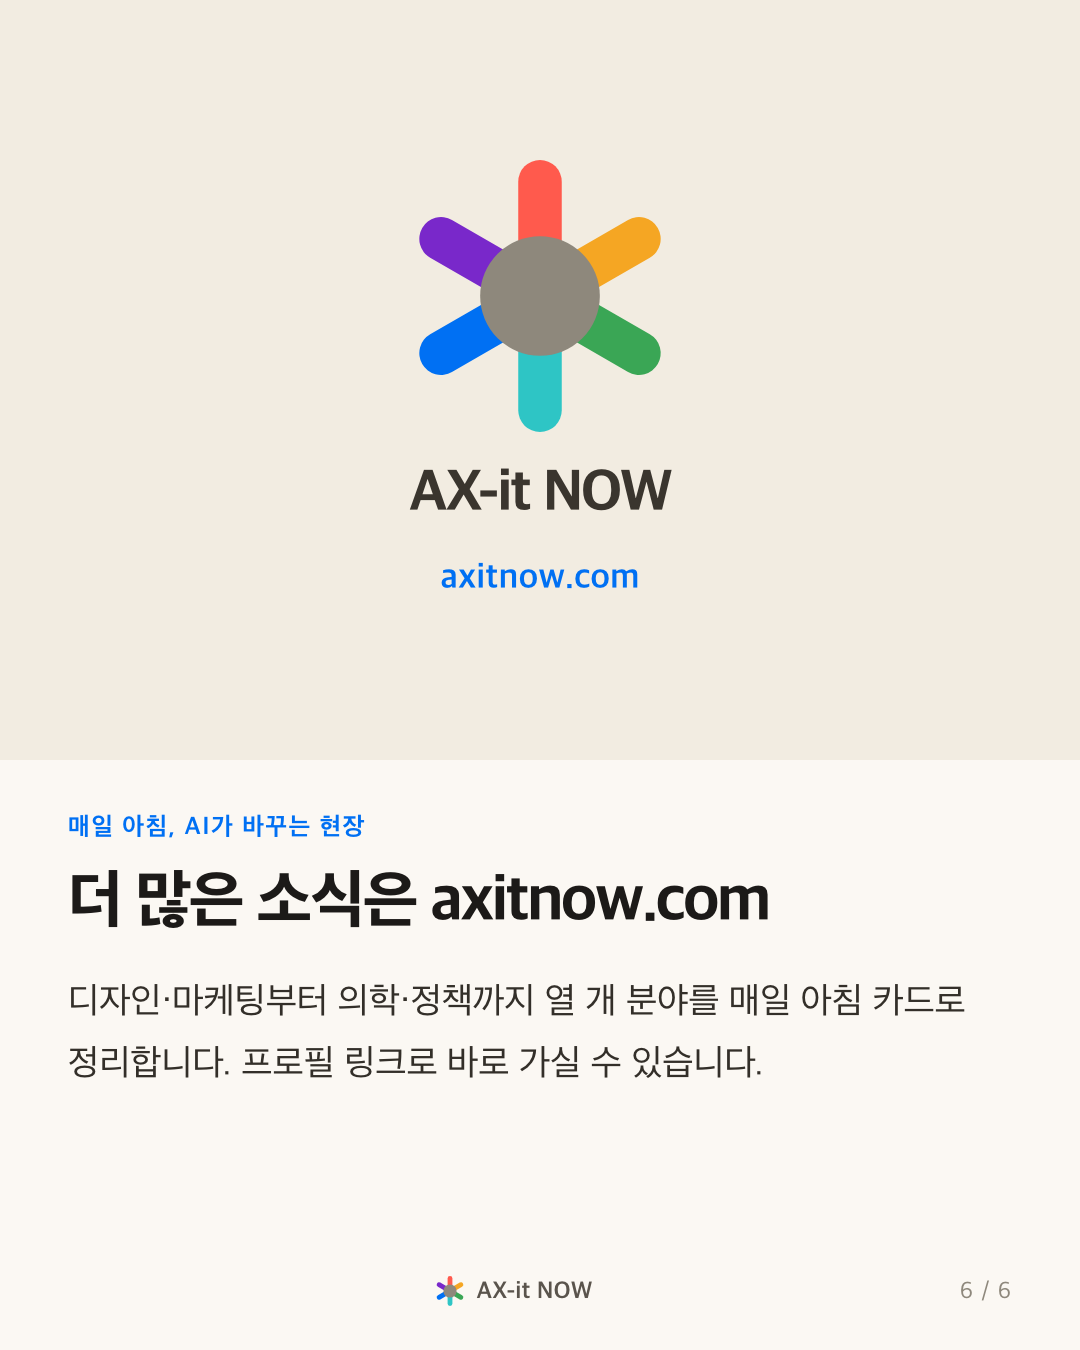
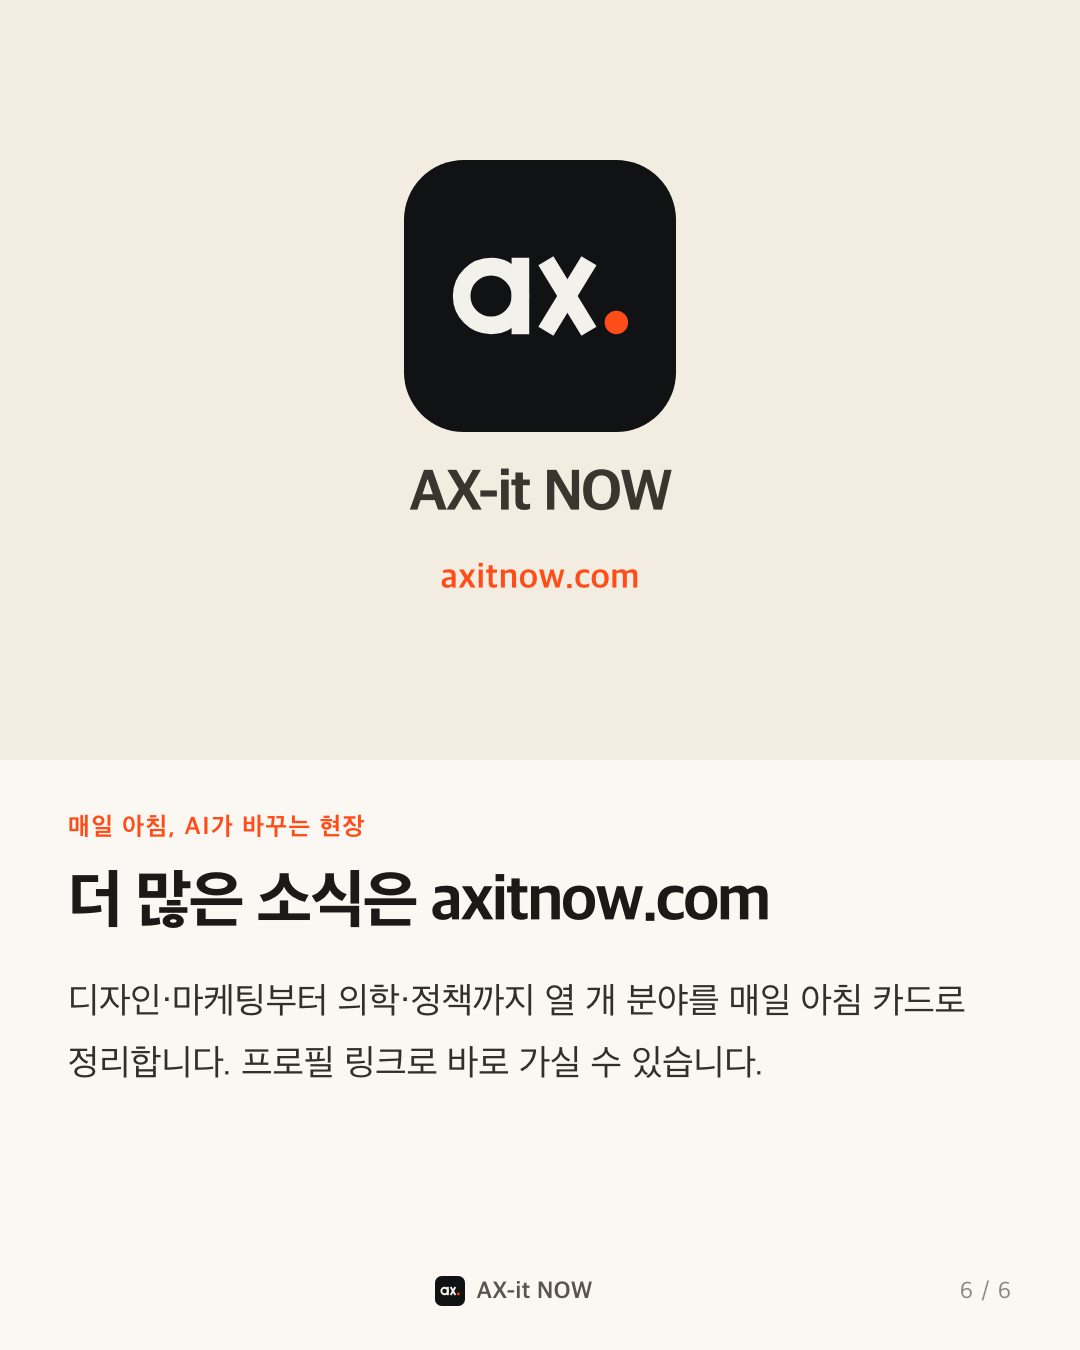
feat(brand): 사이트 아이콘을 'ax.' 모노그램으로 교체
파일명을 그대로 둔 이유: 이미 구워 둔 공유 페이지 1,512장이 /favicon.svg를
가리키고 있어서, 같은 경로에 새 파일을 넣으면 재생성 없이 전부 새 아이콘을
받는다. 이름을 icon-192 쪽으로 맞추면 그 1,512장을 다시 구워야 한다.

favicon.ico는 링크를 걸지 않고 루트에만 둔다. 검색엔진과 일부 리더는
링크 태그 없이 /favicon.ico를 경로로 직접 집어 가므로, 파일만 두면 공유
페이지를 건드리지 않고 그 이득을 가져간다. 테스트로 박아 둬서 '안 쓰는
파일'로 보여 지워지지 않게 했다.

파비콘 테스트의 "<path가 있어야 한다"를 고쳤다. 그 단언의 요지는 필터에
기대지 말라는 것이었는데, 옛 별표 마크가 <path>였을 뿐이고 새 모노그램은
<circle>·<line>으로 굽는다 — 둘 다 똑같이 구워진 도형이다.

인스타그램 outro 카드는 섹션 액센트 대신 로고의 시그널 오렌지를 쓴다.
마지막 장은 그 회차의 섹션이 아니라 브랜드를 말하는 자리고, 영화편 파랑
옆에 두고 보면 마크의 오렌지 점과 맞부딪힌다.

프로필 이미지 생성 스크립트는 지웠다 — 로고 번들이 프로필용 정사각
이미지를 같이 주면서 두 벌을 유지할 이유가 없어졌다.

Claude-Session: https://claude.ai/code/session_01TYYxH4mRVed7tGNaMFwjoy

diff --git a/pipeline/favicon_test.py b/pipeline/favicon_test.py
@@ -56,10 +56,22 @@ def test_share_pages_carry_it():
 
 
 def test_the_svg_bakes_the_shape_instead_of_filtering_it():
-    """SVG 파비콘의 필터 지원은 브라우저마다 갈린다. 안 먹으면 마크가 흩어진다."""
+    """SVG 파비콘의 필터 지원은 브라우저마다 갈린다. 안 먹으면 마크가 흩어진다.
+
+    도형 자체는 무엇이든 된다 — 예전 별표 마크는 <path>로, 지금의 'ax.'
+    모노그램은 <circle>·<line>으로 굽는다. 걸러야 하는 것은 필터다."""
     svg = _read("favicon.svg")
-    assert "<filter" not in svg, "파비콘이 필터에 기대고 있다 — 패스로 구워야 한다"
-    assert "<path" in svg
+    assert "<filter" not in svg, "파비콘이 필터에 기대고 있다 — 도형으로 구워야 한다"
+    drawn = [t for t in ("<path", "<circle", "<line", "<polygon", "<polyline") if t in svg]
+    assert drawn, "파비콘에 마크 도형이 없다 — 배경 사각형만 남았는지 보라"
+
+
+def test_the_ico_sits_at_the_conventional_path():
+    """링크 태그가 없어도 검색엔진과 일부 리더는 /favicon.ico를 경로로 직접 집어 간다.
+    셸에 링크를 더하지 않는 이유는 공유 페이지 1,500여 장을 다시 구워야 하기 때문이다 —
+    파일만 자리에 두면 그 이득을 공짜로 가져간다. 쓰이지 않는 파일로 보여 지우지 말 것."""
+    p = os.path.join(ROOT, "favicon.ico")
+    assert os.path.exists(p) and os.path.getsize(p) > 200, "favicon.ico가 없다"
 
 
 if __name__ == "__main__":

diff --git a/social/instagram/render.py b/social/instagram/render.py
@@ -33,6 +33,10 @@ TEXT_W = W - PAD_X * 2
 FOOT_H = 24 + 44         # 푸터 글자 + 아래 여백
 BREATH = 46              # 본문과 푸터 사이 최소 숨
 CREAM = "#fbf8f3"
+# 로고의 시그널 오렌지. outro 한 장만 섹션 액센트 대신 이 색을 쓴다 — 마지막
+# 장은 그 회차의 섹션이 아니라 브랜드를 말하는 자리고, 섹션색을 쓰면 마크의
+# 오렌지 점과 맞부딪힌다(영화편 파랑 옆에 두고 보면 바로 보인다).
+BRAND_ACCENT = "#FF4D1A"
 
 CSS = """
 *{margin:0;padding:0;box-sizing:border-box}
@@ -142,8 +146,9 @@ def card_html(c, meta, total, has_video):
     mbg = "transparent" if has_video else (
         "#17150f" if k == "stat" else (meta["accent"] if k == "quote" else (
             "#f2ece1" if k == "outro" else "#e9e3d8")))
+    accent = BRAND_ACCENT if k == "outro" else meta["accent"]
     css = CSS % {"W": W, "H": H, "MH": mh, "BH": H - mh, "PT": PAD_TOP, "PX": PAD_X,
-                 "BR": BREATH, "ACCENT": meta["accent"], "HS": hs, "BS": bs,
+                 "BR": BREATH, "ACCENT": accent, "HS": hs, "BS": bs,
                  "CREAM": CREAM, "PAGE": "transparent" if has_video else CREAM,
                  "MBG": mbg}
     cover = " cover" if k == "cover" else ""

diff --git a/social/instagram/README.md b/social/instagram/README.md
@@ -66,15 +66,16 @@ MP4를 굽는다. 헤드리스 크롬과 ffmpeg을 쓴다(둘 다 이 기계에 
 
 본문 마지막 카드(`n`)는 `outro`까지 센 번호다 — 다섯 장짜리 이슈면 `6 / 6`.
 
-## 프로필 이미지
+## 브랜드 자산
 
-```
-python3 social/instagram/profile.py      # out/profile-{ink,cream}.png
-```
+`axitnow-logo/`가 원본이다. 사이트 루트의 `favicon.svg` · `favicon-32.png` ·
+`favicon-192.png` · `apple-touch-icon.png` · `favicon.ico`는 전부 여기서
+복사해 간 것이므로, **로고를 고칠 일이 생기면 이 폴더를 고치고 루트로 다시
+복사한다.** 한쪽만 고치면 탭 아이콘과 카드 푸터의 마크가 어긋난다.
 
-프로필 사진은 **원형으로 잘리고 110px 안팎으로 보인다.** 그래서 글자를 넣지
-않는다 — 워드마크를 올리면 그 크기에서 읽히지도 않으면서 마크만 작아진다.
-마크를 정사각의 57%로 두어 원형 크롭이 살 끝을 자르지 않게 했다.
+인스타그램 프로필 사진은 `axitnow-logo/axitnow-instagram-1080.png`를 그대로
+올린다. 한때 마크만 올려 굽는 스크립트를 두었는데, 로고 번들이 프로필용
+정사각 이미지를 같이 주면서 두 벌을 유지할 이유가 없어졌다.
 
 ## 글 길이
 

diff --git a/social/instagram/account.md b/social/instagram/account.md
@@ -38,6 +38,11 @@ AX-it NOW ✳ 매일 AI 뉴스
 👇 전문은 아래 링크에서
 ```
 
+## 프로필 사진
+
+`social/instagram/axitnow-logo/axitnow-instagram-1080.png`를 그대로 올린다.
+정사각으로 올리면 인스타그램이 원형으로 잘라 준다.
+
 ## 링크
 
 1순위 `https://axitnow.com`. 인스타그램은 링크를 여러 개 걸 수 있으니
